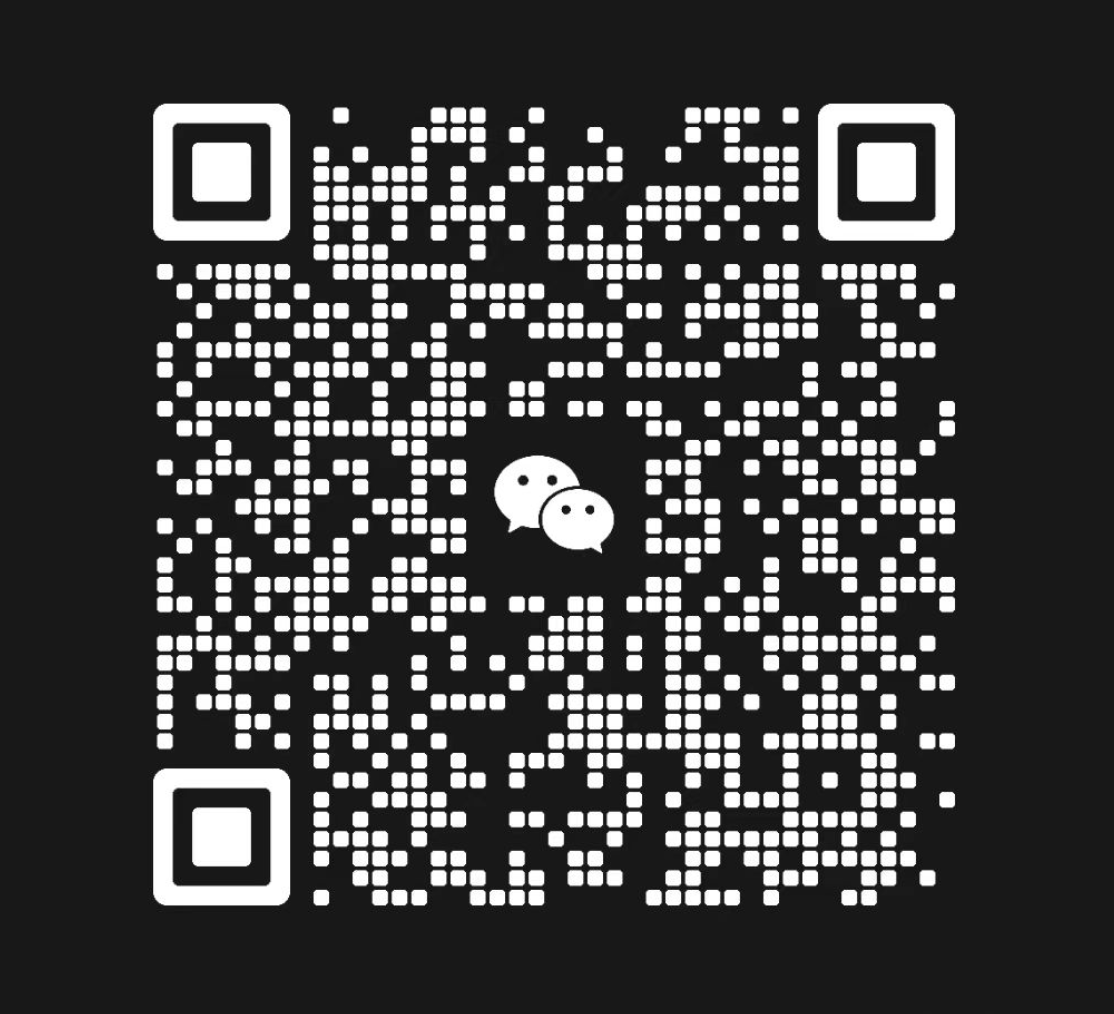
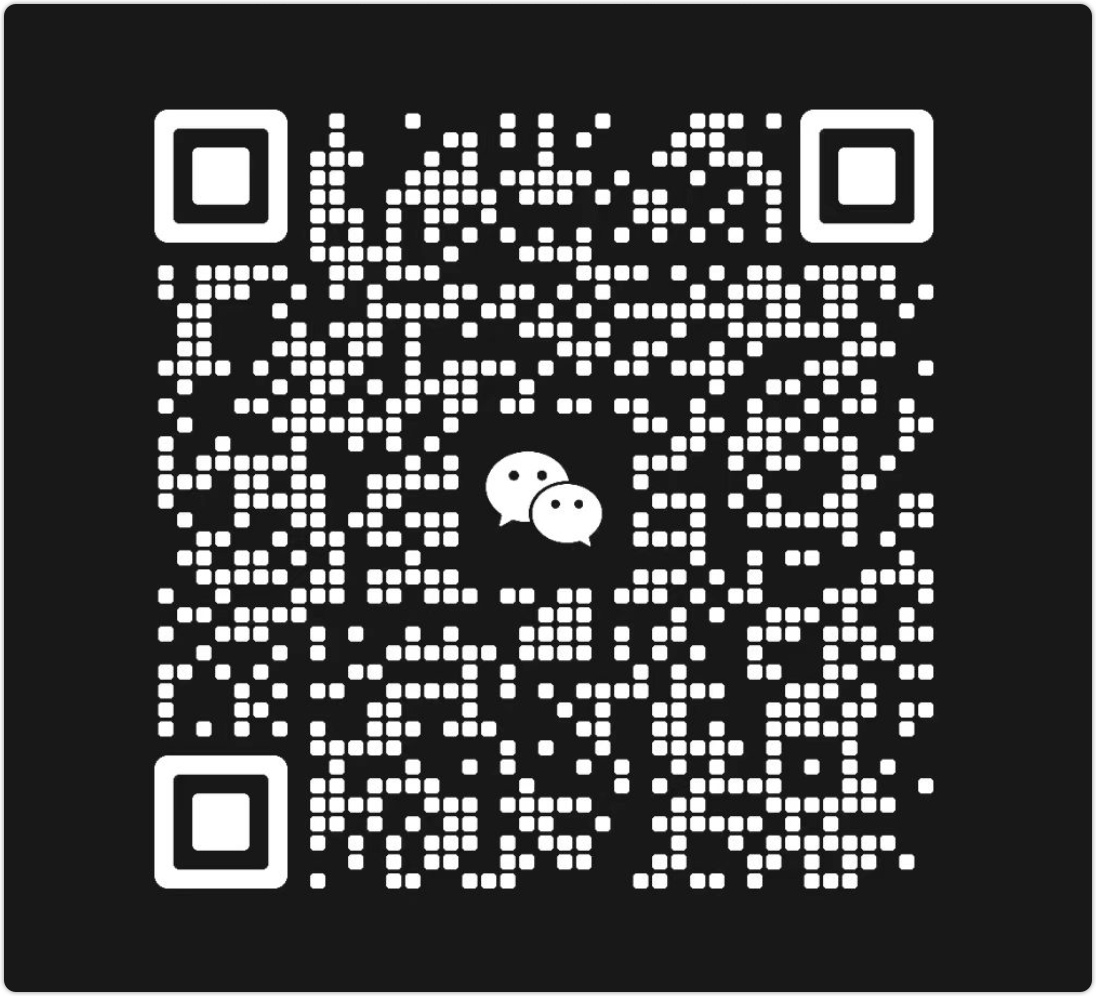
update README.md.

Changed region(s): [[0.1241, 0.0934, 0.8686, 0.9026], [0.0, 0.0, 1.0, 1.0], [0.8376, 0.7781, 0.8686, 0.8092]]

diff --git a/README.md b/README.md
@@ -15,7 +15,7 @@
 - 如橙单开源对您确有帮助，希望得到您的 Star，让更多同行知道我们的存在。
 - 如需更多支持，请扫左侧二维码加我微信，邀您入群，扫右侧二维码可直接入群。
 
-|![](images/OrangeL.png)|![](images/wechatgroup5.png)|
+|![](images/OrangeL.png)|![](images/wechatgroup.png)|
 |---|---|
 
 ### 线上资源
